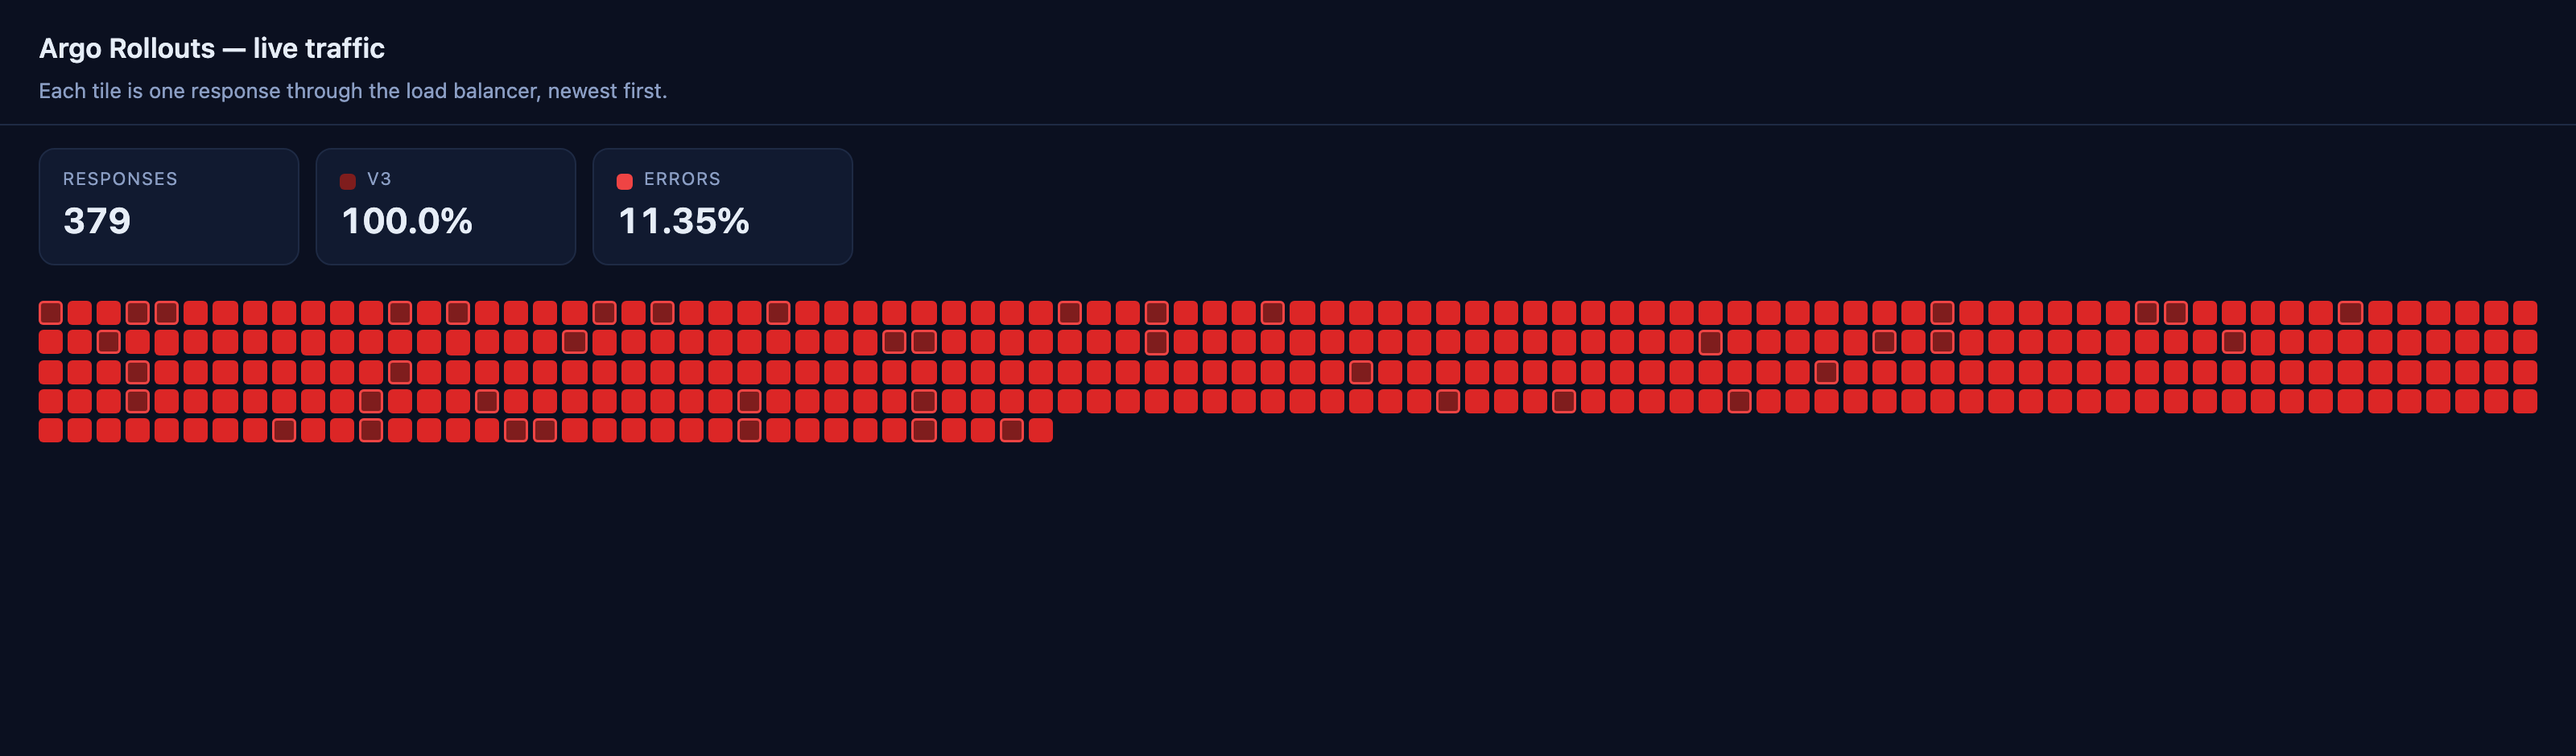
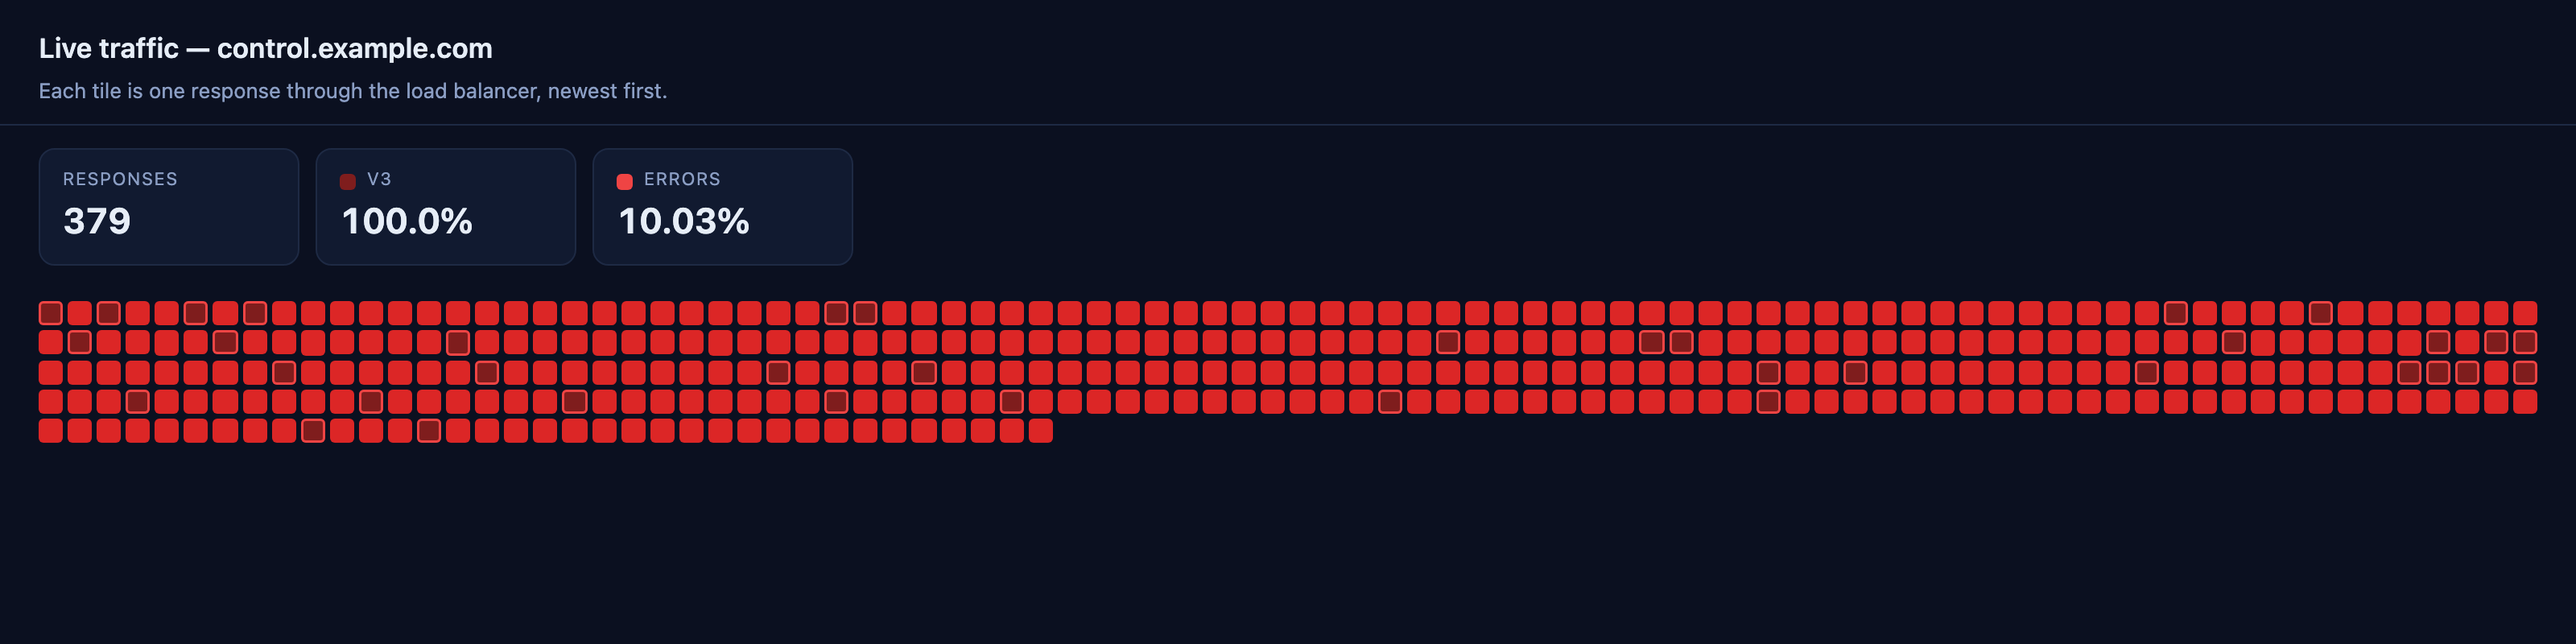
Dedupe overlapping ServiceMonitor scrapes in the dashboard
The stable and canary Services both select every pod outside a rollout, so
summing the raw counter double-counts: a verified 50 rps load test rendered
as 100 rps. Wrapping each rate in max by (version, pod) before summing gives
the correct figure and, unlike adding a third ServiceMonitor, also fixes
already-recorded data.

Also match the graph series colours to the tiles the demo app paints.

Changed region(s): [[0.0, 0.1875, 1.0, 0.6875], [0.0, 0.0312, 0.2812, 0.1562]]

diff --git a/scripts/shoot.py b/scripts/shoot.py
@@ -30,6 +30,11 @@ def main():
     ap.add_argument("--full", action="store_true")
     ap.add_argument("--wait-selector")
     ap.add_argument("--height", type=int)
+    ap.add_argument("--width", type=int)
+    ap.add_argument("--login-user")
+    ap.add_argument("--login-pass")
+    ap.add_argument("--url-after")
+    ap.add_argument("--basic-auth", help="user:pass, sent as an Authorization header")
     args = ap.parse_args()
 
     launch_args = []
@@ -48,9 +53,29 @@ def main():
         viewport = dict(GRID_VIEWPORT if args.mode == "grid" else VIEWPORT)
         if args.height:
             viewport["height"] = args.height
-        page = browser.new_context(viewport=viewport,
-                                   device_scale_factor=2).new_page()
+        if args.width:
+            viewport["width"] = args.width
+        ctx_args = {"viewport": viewport, "device_scale_factor": 2}
+        if args.basic_auth:
+            user, _, pw = args.basic_auth.partition(":")
+            ctx_args["http_credentials"] = {"username": user, "password": pw}
+        page = browser.new_context(**ctx_args).new_page()
         page.goto(url, wait_until="domcontentloaded", timeout=60000)
+        if args.login_user:
+            # Both UIs render the form client-side, so wait for it to exist
+            # before touching it. Argo CD names the field "username",
+            # Grafana names it "user".
+            page.wait_for_selector("input[name='password']", timeout=30000)
+            for sel in ("input[name='username']", "input[name='user']"):
+                if page.locator(sel).count():
+                    page.fill(sel, args.login_user)
+                    break
+            page.fill("input[name='password']", args.login_pass)
+            page.click("button[type='submit']")
+            # The Argo CD UI polls continuously, so networkidle never fires.
+            page.wait_for_timeout(8000)
+            if args.url_after:
+                page.goto(args.url_after, wait_until="domcontentloaded", timeout=60000)
         if args.wait_selector:
             page.wait_for_selector(args.wait_selector, timeout=60000)
         # The tile grid fills itself by polling, so it needs real wall-clock
